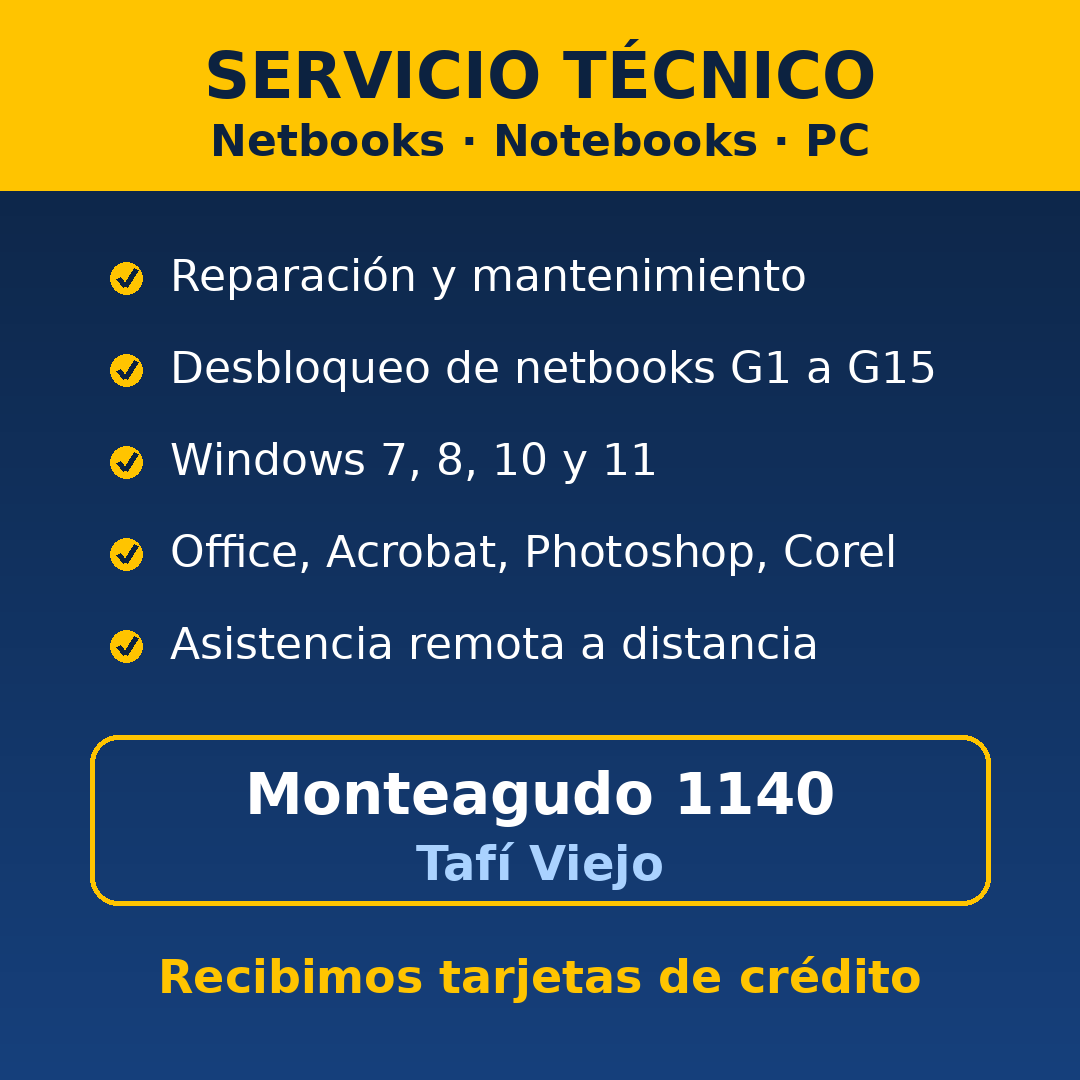
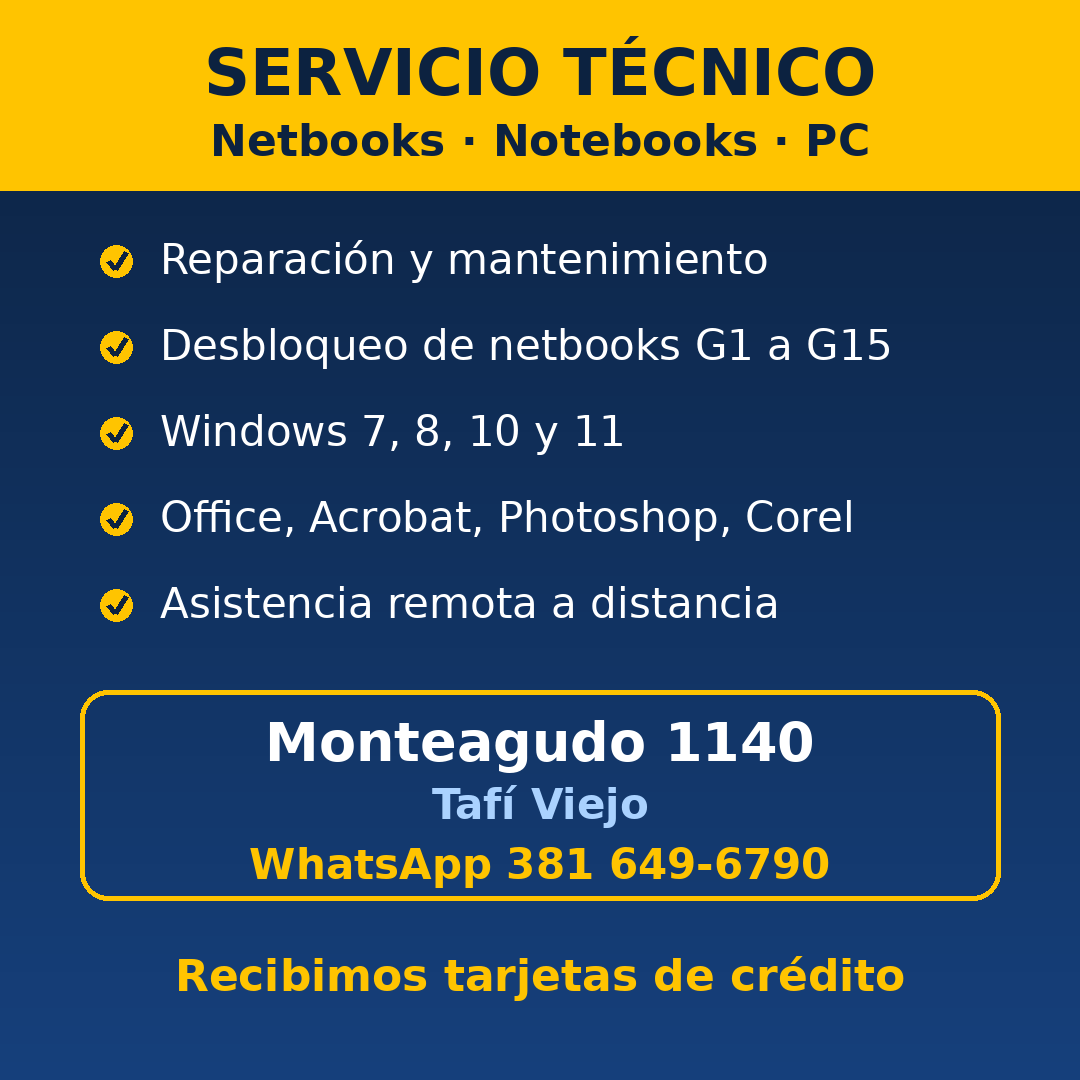
Sincronización con GitHub, WhatsApp en anuncios y generador de imágenes
- Nuevo comando `sincronizar` y sincronización automática cada 30 minutos
  en `ejecutar`: sube fotos e ideas de la PC y baja lo nuevo de GitHub.
  Nunca sube datos/ (sesión de Facebook).
- conectar_github.bat conecta una carpeta instalada desde ZIP con el
  repositorio, con copia de seguridad previa; sincronizar.bat.
- publicaciones/ideas.txt como buzón de pedidos.
- WhatsApp agregado a los textos y a la imagen; generador de placas
  reutilizable en herramientas/imagenes.py.

Claude-Session: https://claude.ai/code/session_01XNnY3xyL6DGQYGkURhtmqT

diff --git a/herramientas/imagenes.py b/herramientas/imagenes.py
@@ -1,0 +1,98 @@
+"""Generador de placas publicitarias 1080x1080 con los datos del negocio.
+
+Uso:
+    python -m herramientas.imagenes   (regenera la placa principal)
+
+Desde código:
+    from herramientas.imagenes import placa
+    placa("SERVICIO TÉCNICO", "Netbooks · Notebooks · PC", ["Ítem 1", "Ítem 2"], "salida.png", tema="azul")
+"""
+from __future__ import annotations
+
+from pathlib import Path
+
+from PIL import Image, ImageDraw, ImageFont
+
+RAIZ = Path(__file__).resolve().parent.parent
+CARPETA_IMAGENES = RAIZ / "publicaciones" / "imagenes"
+
+NEGOCIO = {
+    "direccion": "Monteagudo 1140",
+    "ciudad": "Tafí Viejo",
+    "whatsapp": "381 649-6790",
+    "pie": "Recibimos tarjetas de crédito",
+}
+
+TEMAS = {
+    #        fondo arriba    fondo abajo     acento          texto           suave
+    "azul":  ((12, 34, 64), (22, 64, 124), (255, 196, 0), (255, 255, 255), (170, 210, 255)),
+    "verde": ((10, 48, 40), (18, 96, 72), (255, 214, 64), (255, 255, 255), (170, 235, 205)),
+    "rojo":  ((70, 14, 20), (140, 28, 40), (255, 214, 64), (255, 255, 255), (255, 200, 200)),
+    "negro": ((18, 18, 22), (48, 48, 58), (0, 200, 255), (255, 255, 255), (190, 190, 205)),
+}
+
+_FUENTES = {
+    True: ["/usr/share/fonts/truetype/dejavu/DejaVuSans-Bold.ttf", "C:/Windows/Fonts/arialbd.ttf"],
+    False: ["/usr/share/fonts/truetype/dejavu/DejaVuSans.ttf", "C:/Windows/Fonts/arial.ttf"],
+}
+W = H = 1080
+
+
+def _fuente(tam: int, negrita: bool = True):
+    for ruta in _FUENTES[negrita]:
+        if Path(ruta).is_file():
+            return ImageFont.truetype(ruta, tam)
+    return ImageFont.load_default(size=tam)
+
+
+def _ajustar(d: ImageDraw.ImageDraw, texto: str, tam: int, ancho_max: int, negrita: bool = True):
+    """Achica la letra hasta que el texto entre en el ancho disponible."""
+    while tam > 20 and d.textlength(texto, font=_fuente(tam, negrita)) > ancho_max:
+        tam -= 2
+    return _fuente(tam, negrita)
+
+
+def placa(titulo: str, subtitulo: str, items: list[str], salida: str | Path, tema: str = "azul") -> Path:
+    arriba, abajo, acento, texto, suave = TEMAS[tema]
+    im = Image.new("RGB", (W, H))
+    d = ImageDraw.Draw(im)
+    for y in range(H):
+        t = y / H
+        d.line([(0, y), (W, y)], fill=tuple(int(a + (b - a) * t) for a, b in zip(arriba, abajo)))
+
+    def centrado(y, contenido, fuente, color):
+        d.text(((W - d.textlength(contenido, font=fuente)) / 2, y), contenido, font=fuente, fill=color)
+
+    d.rectangle([0, 0, W, 190], fill=acento)
+    centrado(35, titulo, _ajustar(d, titulo, 64, W - 80), arriba)
+    centrado(115, subtitulo, _ajustar(d, subtitulo, 44, W - 80), arriba)
+
+    items = items[:5]
+    paso = 430 // max(len(items), 1)
+    y = 235
+    for item in items:
+        d.ellipse([100, y + 10, 132, y + 42], fill=acento)
+        d.line([(108, y + 26), (115, y + 34), (126, y + 17)], fill=arriba, width=5)
+        d.text((160, y), item, font=_ajustar(d, item, 42, W - 200, negrita=False), fill=texto)
+        y += min(paso, 90)
+
+    d.rounded_rectangle([80, 690, 1000, 900], radius=28, outline=acento, width=5)
+    centrado(710, NEGOCIO["direccion"], _fuente(54), texto)
+    centrado(780, NEGOCIO["ciudad"], _fuente(42), suave)
+    centrado(840, f"WhatsApp {NEGOCIO['whatsapp']}", _fuente(42), acento)
+    centrado(950, NEGOCIO["pie"], _fuente(44), acento)
+
+    salida = Path(salida)
+    salida.parent.mkdir(parents=True, exist_ok=True)
+    im.save(salida, optimize=True)
+    return salida
+
+
+if __name__ == "__main__":
+    ruta = placa(
+        "SERVICIO TÉCNICO", "Netbooks · Notebooks · PC",
+        ["Reparación y mantenimiento", "Desbloqueo de netbooks G1 a G15", "Windows 7, 8, 10 y 11",
+         "Office, Acrobat, Photoshop, Corel", "Asistencia remota a distancia"],
+        CARPETA_IMAGENES / "servicio-tecnico-tafi.png",
+    )
+    print(f"Imagen guardada en {ruta}")

diff --git a/agente/sincronizacion.py b/agente/sincronizacion.py
@@ -1,0 +1,71 @@
+"""Sincronización de la carpeta del proyecto con GitHub.
+
+- Sube lo que dejás en la PC (fotos nuevas en publicaciones/imagenes/, ideas en publicaciones/ideas.txt).
+- Baja lo que prepara Claude (publicaciones nuevas, imágenes, mejoras del agente).
+
+Nunca sube la carpeta datos/ (tu sesión de Facebook): está en .gitignore y además no se agrega.
+"""
+from __future__ import annotations
+
+import logging
+import subprocess
+from pathlib import Path
+
+log = logging.getLogger("agente")
+
+RUTAS_A_SUBIR = ["publicaciones", "config"]
+IDENTIDAD = ["-c", "user.name=Agente (PC)", "-c", "user.email=agente-pc@users.noreply.github.com"]
+
+
+class ErrorSincronizacion(Exception):
+    pass
+
+
+def _git(raiz: Path, *args: str, revisar: bool = True) -> subprocess.CompletedProcess:
+    try:
+        resultado = subprocess.run(["git", *args], cwd=raiz, capture_output=True, text=True,
+                                   encoding="utf-8", errors="replace", timeout=180)
+    except FileNotFoundError:
+        raise ErrorSincronizacion("Git no está instalado (descargalo de https://git-scm.com)") from None
+    except subprocess.TimeoutExpired:
+        raise ErrorSincronizacion(f"git {args[0]} tardó demasiado (¿hay internet?)") from None
+    if revisar and resultado.returncode != 0:
+        raise ErrorSincronizacion(f"git {args[0]} falló: {(resultado.stderr or resultado.stdout).strip()}")
+    return resultado
+
+
+def conectado(raiz: Path) -> bool:
+    return (raiz / ".git").exists()
+
+
+def sincronizar(raiz: Path) -> str:
+    """Sube los cambios locales y baja los remotos. Devuelve un resumen de lo que pasó."""
+    if not conectado(raiz):
+        return "La carpeta no está conectada a GitHub (ejecutá conectar_github.bat)"
+
+    rutas = [r for r in RUTAS_A_SUBIR if (raiz / r).exists()]
+    _git(raiz, "add", "--", *rutas)
+    hay_locales = _git(raiz, "diff", "--cached", "--quiet", revisar=False).returncode == 1
+    if hay_locales:
+        _git(raiz, *IDENTIDAD, "commit", "-q", "-m", "Cambios desde la PC (fotos e ideas)")
+
+    antes = _git(raiz, "rev-parse", "HEAD").stdout.strip()
+    bajada = _git(raiz, *IDENTIDAD, "pull", "--rebase", "--autostash", "-q", revisar=False)
+    if bajada.returncode != 0:
+        _git(raiz, "rebase", "--abort", revisar=False)
+        raise ErrorSincronizacion("Tus cambios y los de GitHub chocan en el mismo archivo. Se siguen usando "
+                                  "los archivos de la PC; pedile a Claude que lo resuelva. Detalle: "
+                                  + (bajada.stderr or bajada.stdout).strip())
+    despues = _git(raiz, "rev-parse", "HEAD").stdout.strip()
+
+    partes = []
+    pendientes = _git(raiz, "rev-list", "--count", "@{u}..HEAD", revisar=False).stdout.strip()
+    if pendientes not in ("", "0"):
+        _git(raiz, "push", "-q")
+        partes.append("se subieron tus fotos/ideas a GitHub")
+    if antes != despues:
+        cambios = _git(raiz, "diff", "--name-only", antes, despues).stdout.split()
+        partes.append(f"se bajaron {len(cambios)} archivos nuevos o actualizados")
+        if any(c.startswith("agente/") or c == "requirements.txt" for c in cambios):
+            partes.append("hay una versión nueva del agente: cerralo y abrilo de nuevo para usarla")
+    return "; ".join(partes) or "todo al día"

diff --git a/agente/cli.py b/agente/cli.py
@@ -16,6 +16,7 @@ from .contenido import elegir_variante
 from .historial import Historial
 from .planificador import grupos_de, proxima_ocurrencia, tareas_del_momento
 from .publicaciones import cargar_publicaciones
+from .sincronizacion import ErrorSincronizacion, conectado, sincronizar
 from .validador import validar_todas
 
 log = logging.getLogger("agente")
@@ -192,7 +193,26 @@ def _una_pasada(config_inicial: Config, args) -> None:
                        esperar=(lambda s: None) if args.sin_demora else time.sleep)
 
 
+def _sincronizar(config: Config) -> bool:
+    if not conectado(config.raiz):
+        return False
+    try:
+        log.info("GitHub: %s", sincronizar(config.raiz))
+        return True
+    except ErrorSincronizacion as e:
+        log.warning("GitHub: no se pudo sincronizar. %s", e)
+        return False
+
+
+def cmd_sincronizar(config, args) -> int:
+    if not conectado(config.raiz):
+        print("La carpeta no está conectada a GitHub. Ejecutá conectar_github.bat")
+        return 1
+    return 0 if _sincronizar(config) else 1
+
+
 def cmd_publicar_pendientes(config, args) -> int:
+    _sincronizar(config)
     _una_pasada(config, args)
     return 0
 
@@ -200,8 +220,12 @@ def cmd_publicar_pendientes(config, args) -> int:
 def cmd_ejecutar(config, args) -> int:
     log.info("Agente en marcha (modo %s). Revisa el calendario cada ~%d minutos. Ctrl+C para salir.",
              config.modo, args.intervalo)
+    ultima_sincronizacion = 0.0
     while True:
         try:
+            if args.sincronizar_cada and time.time() - ultima_sincronizacion >= args.sincronizar_cada * 60:
+                _sincronizar(config)
+                ultima_sincronizacion = time.time()
             _una_pasada(config, args)
         except KeyboardInterrupt:
             raise
@@ -236,6 +260,9 @@ def construir_parser() -> argparse.ArgumentParser:
     p = sub.add_parser("ejecutar", help="deja el agente corriendo y publica según el calendario")
     p.add_argument("--intervalo", type=int, default=5, help="minutos entre revisiones (por defecto 5)")
     p.add_argument("--sin-demora", action="store_true")
+    p.add_argument("--sincronizar-cada", type=int, default=30,
+                   help="minutos entre sincronizaciones con GitHub (0 = nunca; por defecto 30)")
+    sub.add_parser("sincronizar", help="sube tus fotos/ideas y baja lo nuevo desde GitHub")
     sub.add_parser("reanudar", help="quita la pausa de emergencia")
     return parser
 
@@ -244,7 +271,7 @@ COMANDOS = {
     "iniciar-sesion": cmd_iniciar_sesion, "verificar-sesion": cmd_verificar_sesion,
     "validar": cmd_validar, "vista-previa": cmd_vista_previa, "estado": cmd_estado,
     "simular": cmd_simular, "publicar-pendientes": cmd_publicar_pendientes,
-    "ejecutar": cmd_ejecutar, "reanudar": cmd_reanudar,
+    "ejecutar": cmd_ejecutar, "sincronizar": cmd_sincronizar, "reanudar": cmd_reanudar,
 }
 
 

diff --git a/tests/test_sincronizacion.py b/tests/test_sincronizacion.py
@@ -1,0 +1,72 @@
+"""Simula la PC y GitHub con repositorios locales (no usa internet)."""
+import shutil
+import subprocess
+
+import pytest
+
+from agente.sincronizacion import sincronizar
+
+pytestmark = pytest.mark.skipif(shutil.which("git") is None, reason="git no instalado")
+
+IDENTIDAD = ["-c", "user.name=Prueba", "-c", "user.email=prueba@example.com"]
+
+
+def git(carpeta, *args):
+    return subprocess.run(["git", *IDENTIDAD, *args], cwd=carpeta, check=True, capture_output=True, text=True).stdout
+
+
+@pytest.fixture
+def repos(tmp_path):
+    github = tmp_path / "github.git"
+    git(tmp_path, "init", "-q", "--bare", "-b", "main", str(github))
+    claude = tmp_path / "claude"
+    git(tmp_path, "clone", "-q", str(github), str(claude))
+    (claude / "publicaciones" / "imagenes").mkdir(parents=True)
+    (claude / "publicaciones" / "programadas.yaml").write_text("publicaciones: []\n")
+    (claude / "publicaciones" / "imagenes" / ".gitkeep").write_text("")
+    (claude / ".gitignore").write_text("datos/\n")
+    git(claude, "add", "-A")
+    git(claude, "commit", "-q", "-m", "inicio")
+    git(claude, "push", "-q", "-u", "origin", "main")
+    pc = tmp_path / "pc"
+    git(tmp_path, "clone", "-q", str(github), str(pc))
+    return claude, pc
+
+
+def test_sin_cambios(repos):
+    _, pc = repos
+    assert sincronizar(pc) == "todo al día"
+
+
+def test_sube_fotos_de_la_pc_pero_nunca_datos(repos):
+    claude, pc = repos
+    (pc / "publicaciones" / "imagenes" / "foto-local.jpg").write_bytes(b"foto")
+    (pc / "datos").mkdir()
+    (pc / "datos" / "sesion.txt").write_text("secreto")
+    assert "subieron" in sincronizar(pc)
+    git(claude, "pull", "-q")
+    assert (claude / "publicaciones" / "imagenes" / "foto-local.jpg").exists()
+    assert not (claude / "datos").exists()
+
+
+def test_baja_lo_nuevo_y_avisa_si_cambio_el_agente(repos):
+    claude, pc = repos
+    (claude / "publicaciones" / "programadas.yaml").write_text("publicaciones: [nueva]\n")
+    (claude / "agente").mkdir()
+    (claude / "agente" / "mejora.py").write_text("x = 1\n")
+    git(claude, "add", "-A")
+    git(claude, "commit", "-q", "-m", "nuevas publicaciones")
+    git(claude, "push", "-q")
+    resumen = sincronizar(pc)
+    assert "2 archivos" in resumen and "versión nueva" in resumen
+    assert "nueva" in (pc / "publicaciones" / "programadas.yaml").read_text()
+
+
+def test_cambios_en_ambos_lados_sin_choque(repos):
+    claude, pc = repos
+    (claude / "publicaciones" / "programadas.yaml").write_text("publicaciones: [semana]\n")
+    git(claude, "commit", "-qam", "semana")
+    git(claude, "push", "-q")
+    (pc / "publicaciones" / "imagenes" / "local.jpg").write_bytes(b"x")
+    resumen = sincronizar(pc)
+    assert "subieron" in resumen and "bajaron" in resumen

diff --git a/README.md b/README.md
@@ -140,6 +140,28 @@ listo, y te pregunta en la ventana negra si lo publicaste.
 
 ---
 
+## 5b. Conexión con GitHub (Claude te prepara publicaciones cada semana)
+
+Si conectás la carpeta con GitHub, el agente **sube** lo que dejás en la PC y **baja** lo que
+prepara Claude, solo, cada 30 minutos mientras está andando:
+
+| Vos dejás en la PC | Claude deja en GitHub |
+|---|---|
+| Fotos nuevas en `publicaciones/imagenes/` | Publicaciones de la semana en `programadas.yaml` |
+| Ideas y pedidos en `publicaciones/ideas.txt` | Imágenes nuevas con tus datos |
+| | Mejoras del agente |
+
+Cómo conectarla (una sola vez):
+1. Instalá [Git para Windows](https://git-scm.com/download/win) (todo "Siguiente").
+2. Poné `conectar_github.bat` en la carpeta del agente y abrilo. La primera vez se abre una
+   ventana para iniciar sesión en GitHub: aceptá.
+3. Listo. Para sincronizar a mano en cualquier momento: `sincronizar.bat`.
+
+La carpeta `datos/` (tu sesión de Facebook) **nunca** se sube.
+Las imágenes se generan con `python -m herramientas.imagenes` (ver `herramientas/imagenes.py`).
+
+---
+
 ## 6. Pruebas antes de publicar
 
 Hay **tres niveles** de prueba. Hacelos en este orden cada vez que cambies algo:
@@ -175,6 +197,7 @@ Además:
 | `estado` | Resumen de límites, pendientes y movimientos |
 | `publicar-pendientes` | Una pasada (publica como máximo 1) — para cron |
 | `ejecutar` | Deja el agente trabajando según el calendario |
+| `sincronizar` | Sube tus fotos/ideas y baja lo nuevo desde GitHub |
 | `reanudar` | Quita la pausa de emergencia |
 
 Todos se usan como `python -m agente <comando>` (con el entorno `.venv` activado).
